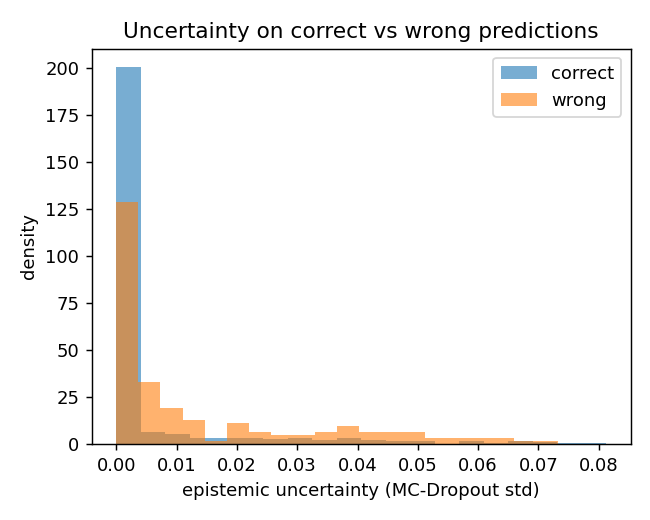
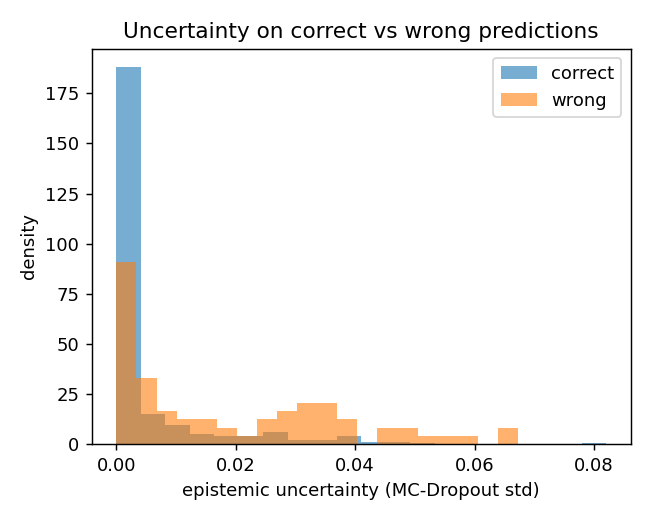
fix: group patient IDs that differ only by a trailing letter (same patient, separate series)

diff --git a/src/cxr_xai/real_tumor.py b/src/cxr_xai/real_tumor.py
@@ -19,6 +19,7 @@ DOI: 10.6084/m9.figshare.1512427 (CC BY 4.0).
 
 from __future__ import annotations
 
+import re
 from pathlib import Path
 
 import h5py
@@ -49,6 +50,16 @@ def read_mat_pid(path: Path | str) -> str:
     return "".join(chr(int(c)) for c in codes).strip()
 
 
+_SERIES_SUFFIX = re.compile(r"^(MR\d+)[A-Z]$")
+
+
+def patient_group(pid: str) -> str:
+    """Grouping key for a PID: MR IDs that differ only by a trailing letter
+    (e.g. MR040240, MR040240B, MR040240C) are treated as the same patient."""
+    m = _SERIES_SUFFIX.match(pid)
+    return m.group(1) if m else pid
+
+
 def image_to_tensor(image: np.ndarray, img_size: int = IMG_SIZE) -> torch.Tensor:
     """Scale to [0,1], resize to img_size, 3 channels, normalise to +/-1.
 
@@ -73,7 +84,8 @@ def load_tumor_tensors(
     """Load every .mat in a directory as binary (X (N,3,H,W), y (N,), groups (N,)).
 
     y = 1 if the class is ``positive_label`` (glioma), else 0. ``groups`` holds
-    the patient ID of each slice, used for patient-level splitting.
+    the patient group of each slice (see ``patient_group``), used for
+    patient-level splitting.
     """
     files = sorted(Path(mat_dir).glob("*.mat"))
     if not files:
@@ -85,7 +97,7 @@ def load_tumor_tensors(
         image, label = read_mat_image(p)
         xs.append(image_to_tensor(image, img_size))
         ys.append(1 if label == positive_label else 0)
-        pids.append(read_mat_pid(p))
+        pids.append(patient_group(read_mat_pid(p)))
     return torch.stack(xs), torch.tensor(ys, dtype=torch.long), np.array(pids, dtype=object)
 
 

diff --git a/tests/test_real_tumor.py b/tests/test_real_tumor.py
@@ -101,3 +101,20 @@ def test_group_split_reproducible():
     b = group_split_indices(y, groups, seed=3)
     for k in a:
         assert np.array_equal(a[k], b[k])
+
+
+def test_patient_group_strips_series_suffix():
+    from cxr_xai.real_tumor import patient_group
+
+    assert patient_group("MR040240B") == "MR040240"
+    assert patient_group("MR040240") == "MR040240"
+    assert patient_group("MR029209E") == "MR029209"
+    assert patient_group("100360") == "100360"
+
+
+def test_load_groups_series_of_same_patient(tmp_path):
+    rng = np.random.default_rng(0)
+    for i, pid in enumerate(["MR051644", "MR051644B", "MR051644C", "112233"], start=1):
+        _write_mat(tmp_path / f"{i}.mat", rng.uniform(0, 1000, size=(16, 16)), 2, pid=pid)
+    _, _, groups = load_tumor_tensors(tmp_path, img_size=16)
+    assert sorted(set(groups)) == ["112233", "MR051644"]

diff --git a/README.md b/README.md
@@ -29,26 +29,26 @@ uncertainty (MC-Dropout)  calibration (temperature)  Grad-CAM
 
 ## Brain MRI track: glioma vs non-glioma (Cheng, CC BY 4.0)
 
-Contrast-enhanced T1w slices from the **Cheng brain tumour dataset** (figshare, CC BY 4.0): 3064 slices from 233 patients. Binary task: glioma vs meningioma/pituitary tumour.
+Contrast-enhanced T1w slices from the **Cheng brain tumour dataset** (figshare, CC BY 4.0): 3064 slices from 233 patient IDs, grouped into 209 patients. Binary task: glioma vs meningioma/pituitary tumour.
 
-**Split by patient**: train / validation / test = 164 / 23 / 46 patients (62 / 9 / 18 with glioma), stratified, seed 0. No patient appears in more than one split. Slices of the same patient are strongly correlated, so a slice-level split would let the model recognise patients it has already seen.
+**Split by patient**: train / validation / test = 148 / 20 / 41 patients (46 / 6 / 13 with glioma), stratified, seed 0. No patient appears in more than one split; patient IDs that differ only by a trailing letter (for example MR040240 and MR040240B, separate series of the same patient) are grouped together. Grouping is by ID only, so a patient listed under unrelated IDs would not be caught. Slices of the same patient are strongly correlated, so a slice-level split would let the model recognise patients it has already seen.
 
 ```bash
 uv run python scripts/download_tumor.py    # all four figshare parts, ~880 MB, MD5-checked (data not committed)
 uv run python scripts/evaluate_tumor.py    # ResNet18 + XAI + uncertainty -> results/tumor_*
 ```
 
-Test set: 613 slices from 46 unseen patients (`results/tumor_metrics.json`).
+Test set: 613 slices from 41 unseen patients (`results/tumor_metrics.json`).
 
 | | AUROC | F1 | Accuracy |
 |--|:--:|:--:|:--:|
-| **ResNet18 (deep)** | **0.961** | 0.572 | 0.719 |
-| Logistic baseline | 0.881 | 0.774 | 0.791 |
+| **ResNet18 (deep)** | **0.942** | 0.876 | 0.883 |
+| Logistic baseline | 0.846 | 0.744 | 0.759 |
 
-- **Calibration (ECE, lower is better)**: 0.237 -> **0.070** with temperature scaling (T = 7.54).
-- **Uncertainty (MC-Dropout)**: 0.0056 on correct vs 0.0135 on wrong predictions, about 2.4x higher on errors.
+- **Calibration (ECE, lower is better)**: 0.076 -> **0.028** with temperature scaling (T = 2.50).
+- **Uncertainty (MC-Dropout)**: 0.0048 on correct vs 0.0190 on wrong predictions, about 4.0x higher on errors.
 
-**Reading the numbers.** The deep model ranks slices much better than the baseline (AUROC), but at the fixed 0.5 threshold its accuracy and F1 are *below* the baseline, and the raw network is strongly over-confident (the fitted temperature is large). Training runs a fixed 5 epochs without early stopping, and the validation loss rises at the last epoch. A single split with 18 glioma patients in the test set leaves wide uncertainty on every number. Report with references: [`report/brain_tumor_xai.md`](report/brain_tumor_xai.md).
+**Reading the numbers.** The deep model is better than the baseline on every metric here, including accuracy and F1 at the fixed 0.5 threshold, and calibration reduces the ECE. Training runs a fixed 5 epochs without early stopping, with one seed and one split, so the threshold-dependent metrics are not stable from run to run. A single split with 13 glioma patients in the test set leaves wide uncertainty on every number. Report with references: [`report/brain_tumor_xai.md`](report/brain_tumor_xai.md).
 
 ## Chest X-ray track (PneumoniaMNIST, CC BY 4.0)
 

diff --git a/report/brain_tumor_xai.md b/report/brain_tumor_xai.md
@@ -7,13 +7,13 @@ brain MRI.
 ## Data
 
 **Cheng brain tumour dataset** (figshare), CC BY 4.0 [3]: 3064 contrast-enhanced T1w slices
-from 233 patients, labelled meningioma, glioma or pituitary tumour. The task is
+from 233 patient IDs (209 patients after grouping), labelled meningioma, glioma or pituitary tumour. The task is
 binary: **glioma vs non-glioma**. Images are normalised and resized to 3x64x64. Raw data are not
 redistributed; `scripts/download_tumor.py` downloads all four parts and checks their MD5.
 
-**Patient-level split.** Train / validation / test = 164 / 23 / 46 patients
-(2145 / 306 / 613 slices; 62 / 9 / 18 patients with glioma), from a
-stratified group K-fold with seed 0. No patient appears in more than one split. An earlier version
+**Patient-level split.** Train / validation / test = 148 / 20 / 41 patients
+(2144 / 307 / 613 slices; 46 / 6 / 13 patients with glioma), from a
+stratified group K-fold with seed 0. No patient appears in more than one split; patient IDs that differ only by a trailing letter (for example MR040240 and MR040240B, separate series of the same patient) are grouped together. Grouping is by ID only, so a patient listed under unrelated IDs would not be caught. An earlier version
 of this repository split by slice and used one quarter of the dataset; with that setup slices of the
 same patient fell on both sides and the scores were not meaningful.
 
@@ -27,26 +27,23 @@ same patient fell on both sides and the scores were not meaningful.
 
 ## Results
 
-From `results/tumor_metrics.json` (test = 613 slices from 46 unseen patients):
+From `results/tumor_metrics.json` (test = 613 slices from 41 unseen patients):
 
 | | ResNet18 | Logistic baseline |
 |---|---|---|
-| **AUROC** | **0.961** | 0.881 |
-| F1 | 0.572 | 0.774 |
-| Accuracy @0.5 | 0.719 | 0.791 |
+| **AUROC** | **0.942** | 0.846 |
+| F1 | 0.876 | 0.744 |
+| Accuracy @0.5 | 0.883 | 0.759 |
 
-- **Calibration**: ECE **0.237 -> 0.070** with temperature scaling (T = 7.54).
-- **Uncertainty**: mean **0.0056** on correct predictions vs **0.0135** on errors.
+- **Calibration**: ECE **0.076 -> 0.028** with temperature scaling (T = 2.50).
+- **Uncertainty**: mean **0.0048** on correct predictions vs **0.0190** on errors.
 
-**Reading the numbers.** The deep model ranks slices much better than the baseline (AUROC), but at
-the fixed 0.5 threshold its accuracy and F1 are below the baseline, and before calibration it is
-strongly over-confident (large fitted temperature). The validation loss rises at the last of the
-5 epochs, so a checkpoint chosen on validation loss would likely behave differently. Figures:
+**Reading the numbers.** The deep model is better than the baseline on every metric here, including accuracy and F1 at the fixed 0.5 threshold, and calibration reduces the ECE. Training runs a fixed 5 epochs without early stopping, with one seed and one split, so the threshold-dependent metrics are not stable from run to run. Figures:
 `results/tumor_reliability.png`, `results/tumor_gradcam.png`, `results/tumor_uncertainty.png`.
 
 ## Limitations
 
-- **One split** with 18 glioma patients in the test set: wide uncertainty on every number.
+- **One split** with 13 glioma patients in the test set: wide uncertainty on every number.
 - **Simplified binary task** (glioma vs the rest); the dataset has 3 classes.
 - 2D slices resized to 64x64: resolution and 3D context are lost.
 - **Not a clinical tool**: research demonstration on public CC BY data.

diff --git a/MODEL_CARD.md b/MODEL_CARD.md
@@ -29,8 +29,8 @@
   DOI 10.1038/s41597-022-01721-8), CC BY 4.0: paediatric chest X-rays, resized to 64x64 and
   replicated to 3 channels; official MedMNIST split.
 - **Cheng brain tumour dataset** (figshare, DOI 10.6084/m9.figshare.1512427), CC BY 4.0:
-  3064 contrast-enhanced T1w slices from 233 patients, resized to 64x64.
-  **Split by patient** (train/val/test = 164/23/46 patients), stratified, seed 0.
+  3064 contrast-enhanced T1w slices from 233 patient IDs (209 patients after grouping), resized to 64x64.
+  **Split by patient**, with IDs differing only by a trailing letter grouped together (train/val/test = 148/20/41 patients), stratified, seed 0.
 - Both datasets are downloaded by script and are not included in the repository.
 
 ## Metrics
@@ -44,18 +44,18 @@ Chest X-ray (`results/metrics.json`, n_test = 624):
 
 ECE 0.172 -> 0.146 (T = 1.81); mean uncertainty 0.0033 (correct) vs 0.0104 (wrong).
 
-Brain MRI (`results/tumor_metrics.json`, n_test = 613 slices from 46 unseen patients, 18 with glioma):
+Brain MRI (`results/tumor_metrics.json`, n_test = 613 slices from 41 unseen patients, 13 with glioma):
 
 | Metric | ResNet-18 (deep) | Logistic baseline |
 |---|:--:|:--:|
-| AUROC | **0.961** | 0.881 |
-| F1 | 0.572 | 0.774 |
-| Accuracy @0.5 | 0.719 | 0.791 |
+| AUROC | **0.942** | 0.846 |
+| F1 | 0.876 | 0.744 |
+| Accuracy @0.5 | 0.883 | 0.759 |
 
-ECE 0.237 -> 0.070 (T = 7.54); mean uncertainty 0.0056 (correct) vs 0.0135 (wrong).
+ECE 0.076 -> 0.028 (T = 2.50); mean uncertainty 0.0048 (correct) vs 0.0190 (wrong).
 
-In both tracks the deep model ranks better (AUROC) while accuracy and F1 at the fixed 0.5
-threshold are below the linear baseline; the raw brain-MRI network is strongly over-confident.
+Chest track: the deep model ranks better (AUROC) while accuracy and F1 at the fixed 0.5
+threshold are below the linear baseline. Brain track: The deep model is better than the baseline on every metric here, including accuracy and F1 at the fixed 0.5 threshold, and calibration reduces the ECE. Training runs a fixed 5 epochs without early stopping, with one seed and one split, so the threshold-dependent metrics are not stable from run to run.
 
 ## Ethical considerations and limitations
 - **Chest track**: paediatric population, low resolution; results do not transfer to adults or
